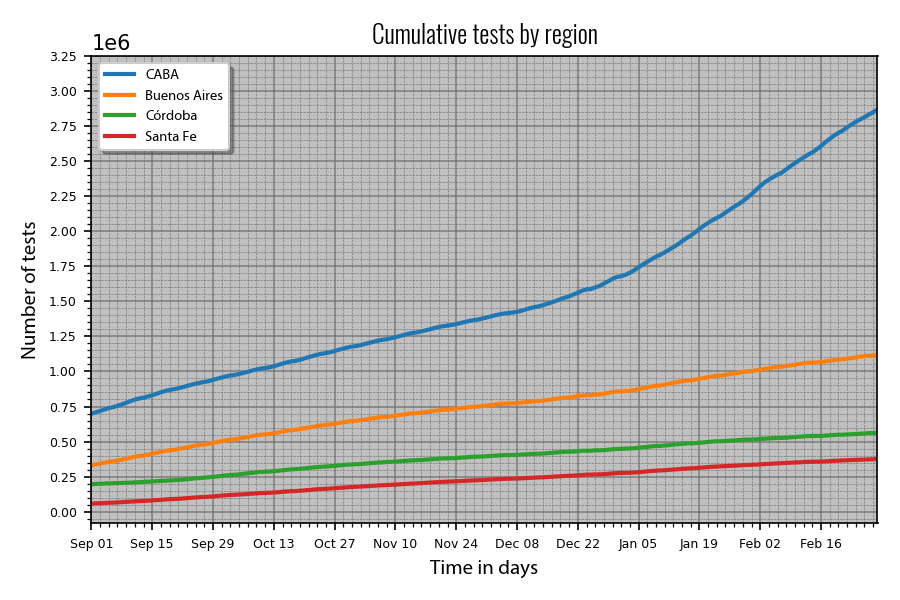
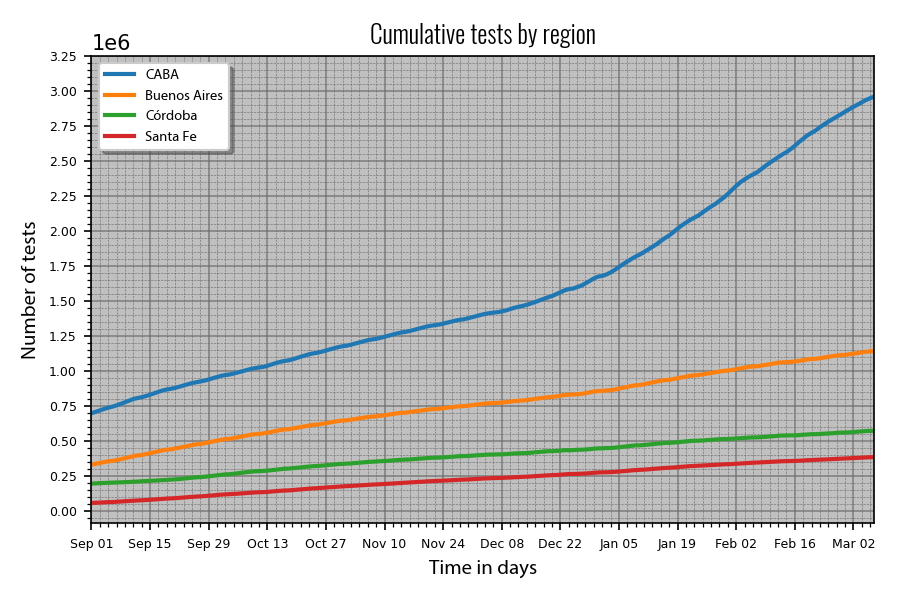
Updating testing charts...

Changed region(s): [[0.0622, 0.03, 0.9956, 0.96]]

diff --git a/COVID-19_DataGobAr_TestsAnalysis.py b/COVID-19_DataGobAr_TestsAnalysis.py
@@ -22,14 +22,14 @@ chartPath = "Argentina_Data/actual_charts/testing/"
 colorlist = ["orange", "tab:blue", "tab:red", "tab:green"]
 
 dataStartDate = "2020-02-11"
-dataEndDate = "2021-03-07"
+dataEndDate = "2021-03-13"
 wantedStartDate = "2020-09-01"
-wantedEndDate = "2021-03-01"
+wantedEndDate = "2021-03-07"
 dataPeriod = pd.date_range(dataStartDate, dataEndDate)
 plotScale = "linear"
 
 #Deciding language for titles and tags...
-lg = 1 # 0 for english, 1 for spanish
+lg = 0 # 0 for english, 1 for spanish
 ticksSizes = [1500, 250000, 0.1, 100000]
 
 #Deciding if you want to save and show charts...
